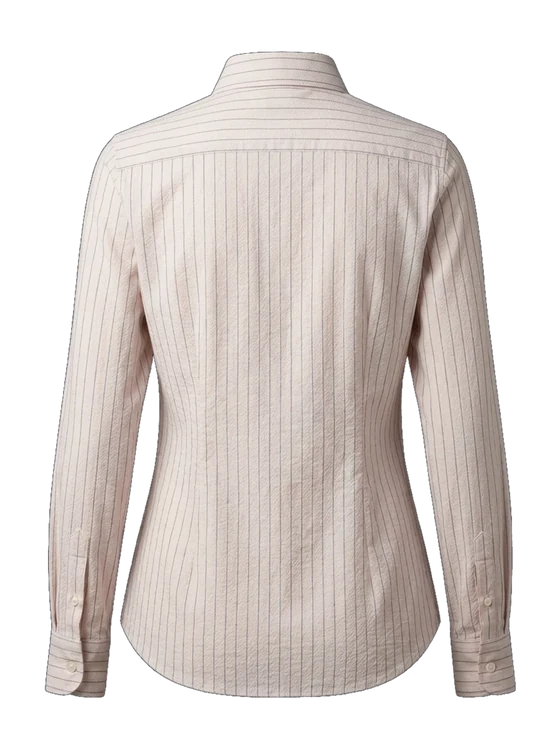
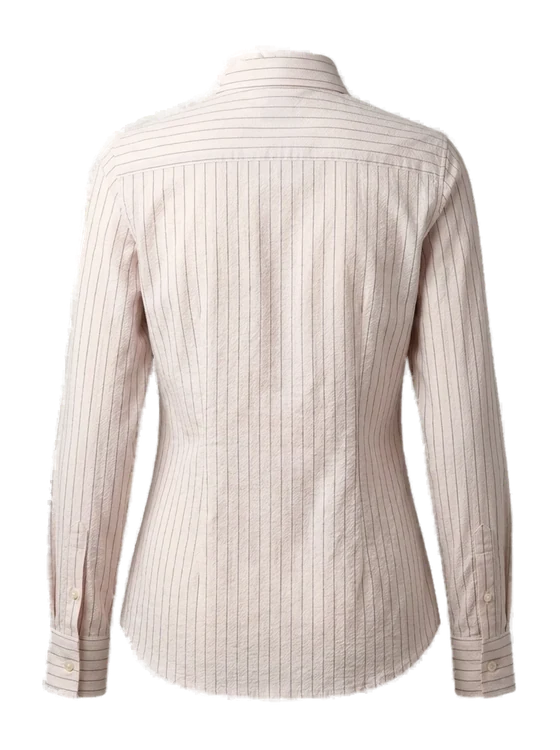
feat(v59): re-process all 28 transparent RGBA shirts with rembg isnet-general-use + alpha matting + EDT RGB decontamination & unify Piura Noche mother-of-pearl buttons

Changed region(s): [[0.0607, 0.1227, 0.9411, 0.9507], [0.3643, 0.0613, 0.6375, 0.1533], [0.6375, 0.1227, 0.6982, 0.1533]]

diff --git a/src/components/HomeShowcaseSections.tsx b/src/components/HomeShowcaseSections.tsx
@@ -12,19 +12,19 @@ const GAMA_VISUAL: Record<
   { image: string; shortCopy: string }
 > = {
   urbano: {
-    image: "/images/shirts/oxford-grafito.png",
+    image: "/images/shirts/oxford-grafito-transparent-mobile.webp",
     shortCopy: "Uso diario, fácil planchado.",
   },
   pima: {
-    image: "/images/shirts/pima-acero.png",
+    image: "/images/shirts/pima-acero-transparent-mobile.webp",
     shortCopy: "Fibra extra larga, tacto sedoso.",
   },
   italiano: {
-    image: "/images/shirts/lino-marfil.png",
+    image: "/images/shirts/lino-marfil-transparent-mobile.webp",
     shortCopy: "Tejedurías italianas, frescura superior.",
   },
   donna: {
-    image: "/images/shirts/donna-mineral.png",
+    image: "/images/shirts/donna-mineral-transparent-mobile.webp",
     shortCopy: "Corte femenino, cloqué liviano.",
   },
 };
